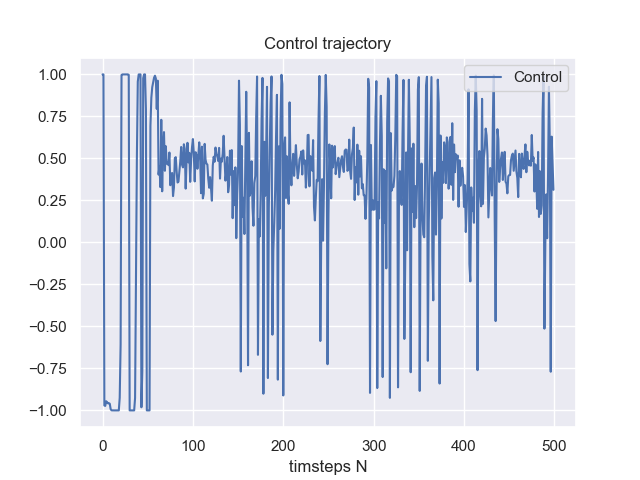
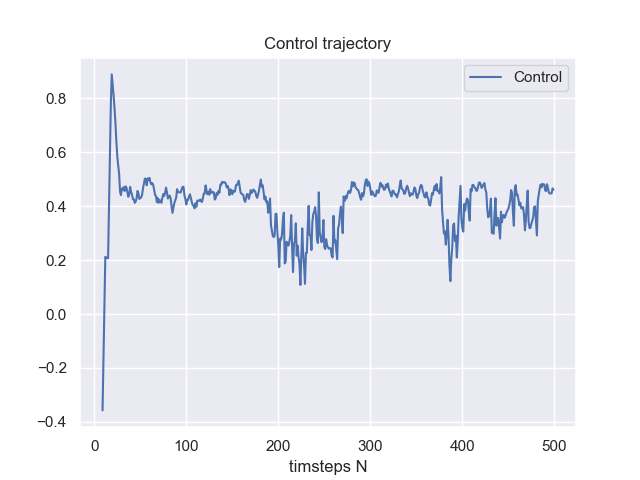
added smoothing to rl control trajectory plot

diff --git a/src/utils_common.py b/src/utils_common.py
@@ -2,6 +2,7 @@ import numpy as np
 import seaborn as sns
 import matplotlib.pyplot as plt
 import os
+import pandas as pd
 
 class Plotter:
     def __init__(self, result_path, is_noc, show_plots = True):
@@ -39,17 +40,23 @@ class Plotter:
             fig.savefig(self.result_path + 'dynamics_rl.png')
 
     def plot_control_trajectory(self, u):
-            fig, ax = plt.subplots()
-            ax.plot(u, label='Control')
-            ax.set_xlabel('timsteps N')
-            ax.set_title('Control trajectory')
-            ax.legend(loc='upper right')
+        print(f"u shape: {u.shape}")
+        if (self.is_noc == False):
+            smoothing_window = max(1, len(u) // 50)
+            u = np.squeeze(u, axis=-1)
+            u = pd.Series.rolling(pd.Series(u), 
+                                  smoothing_window).mean()
+        fig, ax = plt.subplots()
+        ax.plot(u, label='Control')
+        ax.set_xlabel('timsteps N')
+        ax.set_title('Control trajectory')
+        ax.legend(loc='upper right')
 
-            my_path = os.path.abspath(__file__)
-            if (self.is_noc):
-                fig.savefig(self.result_path + 'Control_trajectory_noc.png')
-            else:
-                fig.savefig(self.result_path + 'Control_trajectory_rl.png')
+        my_path = os.path.abspath(__file__)
+        if (self.is_noc):
+            fig.savefig(self.result_path + 'Control_trajectory_noc.png')
+        else:
+            fig.savefig(self.result_path + 'Control_trajectory_rl.png')
 
     def plot_costs(self, costs):
         fig, ax = plt.subplots()
